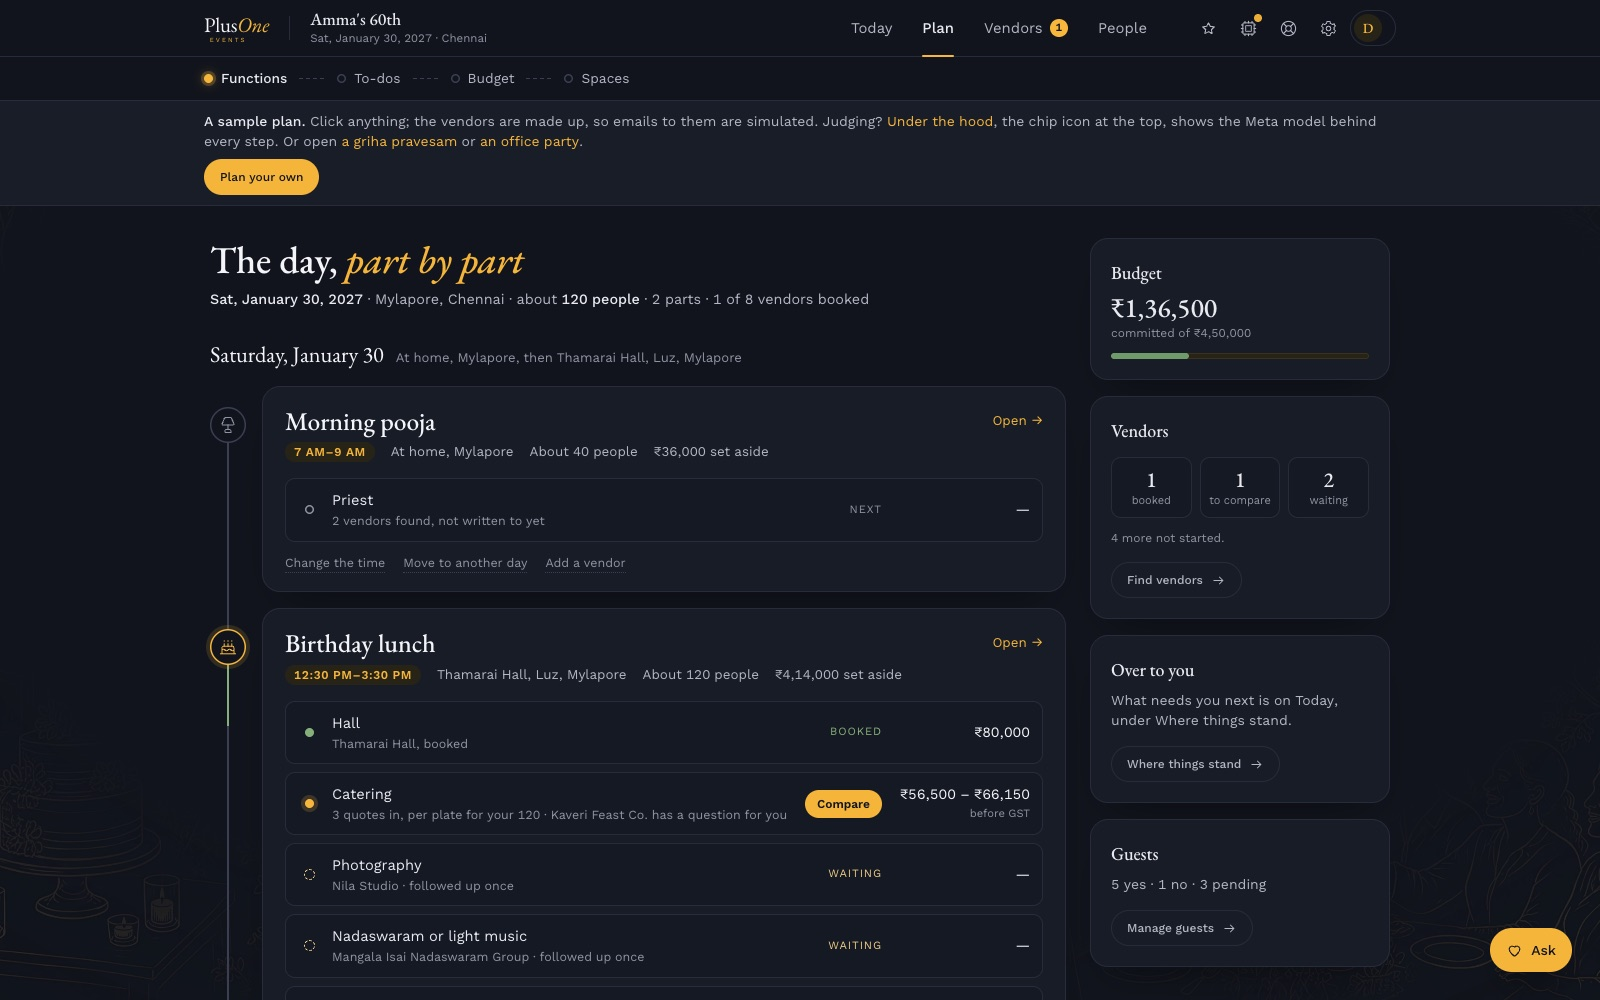
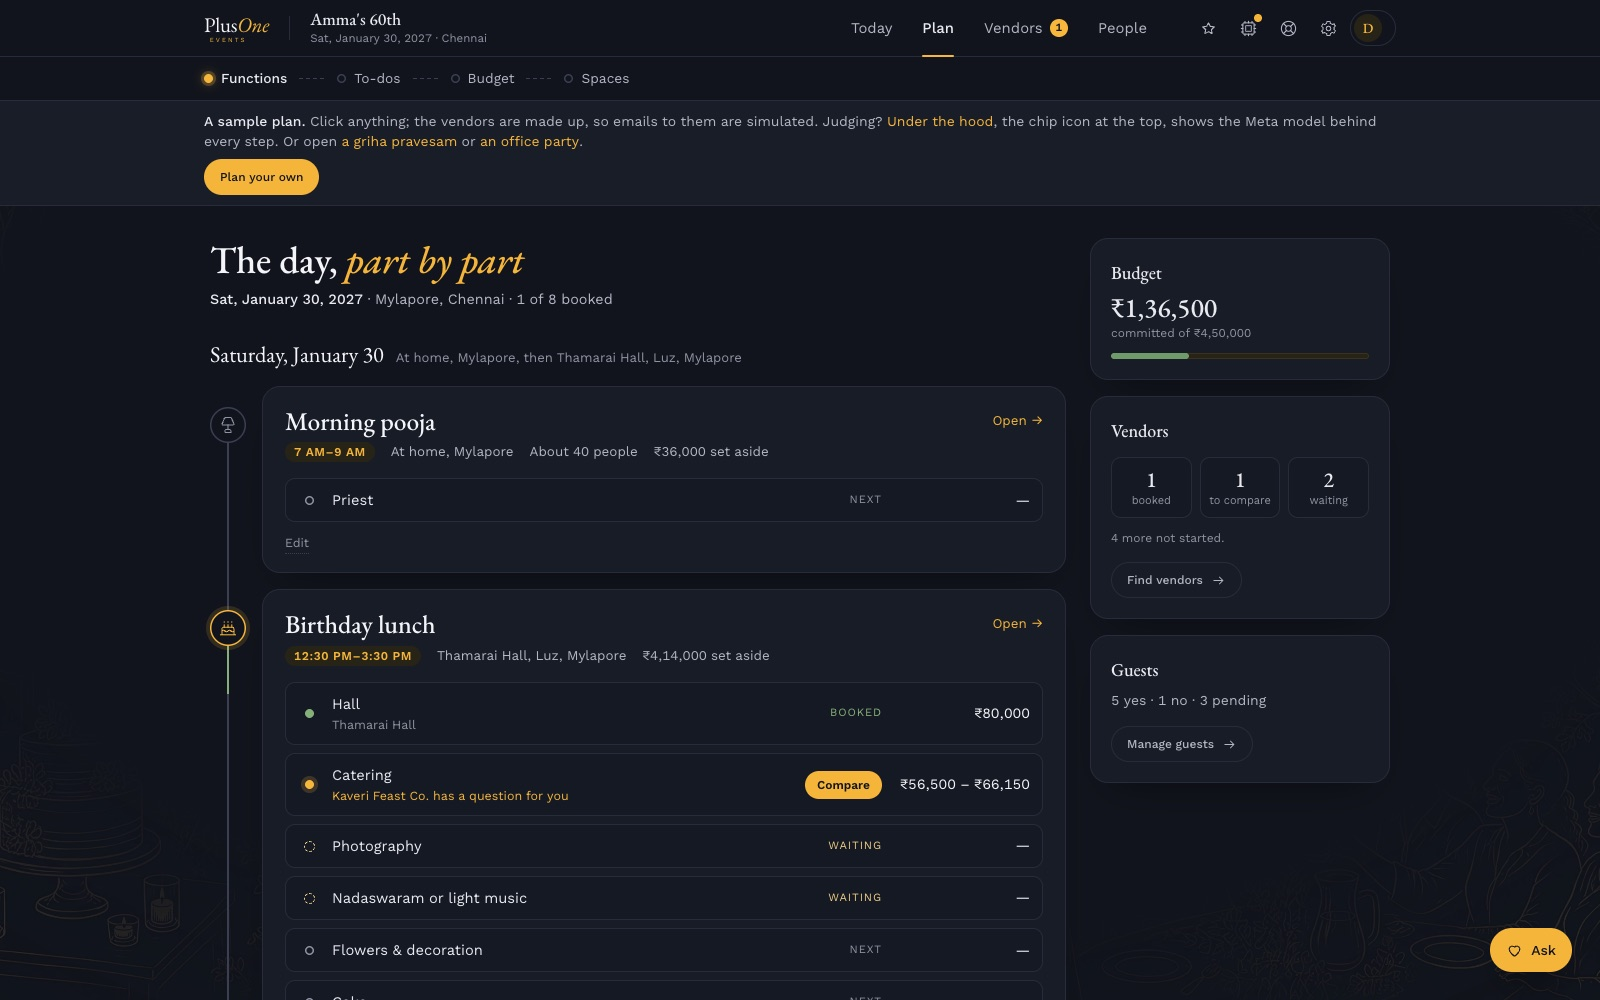
README: the Plan screenshot retaken after the lighter Plan tab; 767 tests

diff --git a/README.md b/README.md
@@ -16,7 +16,7 @@
 ![Event](https://img.shields.io/badge/event-Meta_Global_AI_Developer_Hackathon-f4b53a?style=flat-square&labelColor=11141c)
 ![Track](https://img.shields.io/badge/track-Startups-f4b53a?style=flat-square&labelColor=11141c)
 ![Status](https://img.shields.io/badge/status-working_end_to_end-c4dfbc?style=flat-square&labelColor=11141c)
-![Tests](https://img.shields.io/badge/tests-765_passing-c4dfbc?style=flat-square&labelColor=11141c)
+![Tests](https://img.shields.io/badge/tests-767_passing-c4dfbc?style=flat-square&labelColor=11141c)
 [![License](https://img.shields.io/badge/license-FSL--1.1--ALv2-b3b7c3?style=flat-square&labelColor=11141c)](LICENSE.md)
 
 <table align="center">
@@ -143,7 +143,7 @@ Before the hackathon, PlusOne already planned an event from a conversation, foun
 |---|---|---|
 | **Impact (30%)**: real-world potential, who benefits, could people use it, fit to the problem statement | Families, teams and event managers plan every event across calls, chats and spreadsheets, with quotes no two alike and charges that arrive later; vendors with no website can't be found. PlusOne is one app for the whole plan, with every quote and offer on the same lines. It is live and free until launch, with a no-sign-up demo. It earns from subscriptions first and, in the end, a disclosed commission on bookings made through PlusOne, kept there by a guarantee only those bookings will get (PlusOne Assured, planned) | [The business](#the-business), [How it works](#how-it-works) |
 | **Use of Meta AI tooling (25%)**: creative, beyond a basic integration, surprising capabilities | Six Meta models, each on the job it suits, chained in one flow: Muse Spark reads every quote, PDF and photo; Muse Voice Transcribe hears a brief, and a vendor's call speaker by speaker; SAM 3.1 cuts the stage out of the host's own hall photo; Muse Wonder gathers a vendor's evidence for Ops; the open-weights Muse Glimmer (our own GPU) checks vendors' photos and Muse Spark Open (Baseten) reads their price lists. Every call shows in Under the hood with its model, time and cost | [Meta's models in PlusOne](#metas-models-in-plusone) |
-| **Technical depth and execution (20%)**: sound, refined engineering, real craft | The model reads; fixed, tested rules decide (what a quote leaves out, the market range, when a quote may move the budget). One wrapper: schema-checked output, retries honouring `Retry-After`, a logged fallback, a cost row per call. 765 tests, CI that also builds the app, the live demo walked end to end in a browser after every push and every three hours, an uptime check every five minutes, and evaluations with their raw results, including a held-out set written by a separate agent: Muse Spark choosing each charge found 35 of 37 at 97% precision on quotes it had never seen, the same in three runs; 18 of 18 quotes read across email, PDF and photo, and 7 of 8 in Tamil and Tanglish; the stage found in 9 of 10 halls; Muse Wonder never confirming a made-up vendor | [Architecture](#architecture), [Evaluations](EVALUATIONS.md#evaluation-missing-charges), [The tech, part by part](EVALUATIONS.md#the-tech-part-by-part) |
+| **Technical depth and execution (20%)**: sound, refined engineering, real craft | The model reads; fixed, tested rules decide (what a quote leaves out, the market range, when a quote may move the budget). One wrapper: schema-checked output, retries honouring `Retry-After`, a logged fallback, a cost row per call. 767 tests, CI that also builds the app, the live demo walked end to end in a browser after every push and every three hours, an uptime check every five minutes, and evaluations with their raw results, including a held-out set written by a separate agent: Muse Spark choosing each charge found 35 of 37 at 97% precision on quotes it had never seen, the same in three runs; 18 of 18 quotes read across email, PDF and photo, and 7 of 8 in Tamil and Tanglish; the stage found in 9 of 10 halls; Muse Wonder never confirming a made-up vendor | [Architecture](#architecture), [Evaluations](EVALUATIONS.md#evaluation-missing-charges), [The tech, part by part](EVALUATIONS.md#the-tech-part-by-part) |
 | **Demo (25%)**: working, impressive, holds up live, a video worth watching | Two demos with no sign-up, the customers' and the vendors', on the live site, with made-up vendors so nothing is really sent. Retries, a fallback, rate limits, an uptime check every five minutes and the demo walked in a browser every three hours, through judging. A three-minute video of the new work | [The demo](https://app.plusoneevents.site/demo), [the vendors' demo](https://partner.plusoneevents.site/demo) |
 
 ### Questions a judge will ask
@@ -367,7 +367,7 @@ Each part, what it runs on and why, with file paths: [EVALUATIONS.md](EVALUATION
 ```bash
 git clone https://github.com/pe-hq-alpha/plusone-app.git plusone && cd plusone
 npm ci
-npm test              # 765 tests, no network, no keys
+npm test              # 767 tests, no network, no keys
 npm run typecheck     # the app and the backend
 ```
 

diff --git a/EVALUATIONS.md b/EVALUATIONS.md
@@ -124,7 +124,7 @@ Glimmer is the better guard on what matters most for trust, a vendor showing wor
 | Muse Spark reading the demo's quotes | The three caterers' replies read on `muse-spark-1.3` in production, each right first time: Annam ₹66,150 in three lines (150 plates at ₹380, ₹6,000 service, ₹3,150 GST), priced for 150; Saapadu ₹62,000 all in for 120 with the ₹480 extra plate kept apart; Kaveri ₹54,000 plus ₹2,500 for vessels and staff, GST extra. 7.1–14.4 s each, 4,329 tokens in and 6,570 out, $0.033 in all, no fallback | 28 Oct 2026 | `npx convex run modelTasks:readDemoQuotes`; the rows are Under the hood's recorded run |
 | Muse Voice Transcribe in production | A note spoken into the live app's Today box came back as text in the box, first try; the recording was deleted after reading | 28 Oct 2026 | By hand on app.plusoneevents.site, in the founder's own voice |
 | Muse Spark's reasoning | At `reasoning_effort: low` a one-line reply used 194 reasoning tokens; capped at 400 output tokens, reasoning took 398 and the answer came back empty. Every call site allows 16,000 | 27 Oct 2026 | Two direct Chat Completions calls |
-| Tests | 765 passed in 79 files, including the quote comparison, the standard sheet and its missing-charge rules (pinned on the guest demo's quotes), the marketplace's listings, briefs, offers and price ranges, the Meta provider switch and its fallback, Muse Spark Open on Baseten and its move to Muse Spark, the photo checks on Muse Glimmer (its retries through a cold start, the tag list, the limits and the Ops decisions), the venue view (boxes to SAM's objects, the mask cache, taps, limits and where the backdrop is drawn), the price list (only the sheet's units and the list's own prices kept, a photo deleted once read), the photos customers see, WhatsApp and call links, the cost record, the voice brief's limits and clean-up, the vendor check's tool loop, source rules (including links cited inside a note), limits, cost on failure and a finished check never run twice, the vendor map's places, distances and plain search, WhatsApp updates (the template, Meta's webhook signature and STOP), the planning conversation's rules, the board's geometry, the co-pilot's route and a contrast check of every text colour in the light and dark themes | 30 Oct 2026 | `npm test` |
+| Tests | 767 passed in 79 files, including the quote comparison, the standard sheet and its missing-charge rules (pinned on the guest demo's quotes), the marketplace's listings, briefs, offers and price ranges, the Meta provider switch and its fallback, Muse Spark Open on Baseten and its move to Muse Spark, the photo checks on Muse Glimmer (its retries through a cold start, the tag list, the limits and the Ops decisions), the venue view (boxes to SAM's objects, the mask cache, taps, limits and where the backdrop is drawn), the price list (only the sheet's units and the list's own prices kept, a photo deleted once read), the photos customers see, WhatsApp and call links, the cost record, the voice brief's limits and clean-up, the vendor check's tool loop, source rules (including links cited inside a note), limits, cost on failure and a finished check never run twice, the vendor map's places, distances and plain search, WhatsApp updates (the template, Meta's webhook signature and STOP), the planning conversation's rules, the board's geometry, the co-pilot's route and a contrast check of every text colour in the light and dark themes | 30 Oct 2026 | `npm test` |
 | Typecheck, app and backend | Clean | 28 Oct 2026 | `npm run typecheck` |
 | The three sample events | Each opened from `/demo` for a new visitor (the birthday, `?sample=housewarming`, `?sample=office`); eleven screens captured with 0 page errors; at phone width (390 px) the page is exactly as wide as the screen, with no sideways scroll | 25 Oct 2026 | Headless Chrome against the dev server and the dev backend; screenshots in this README are retaken as each page changes, last 26–29 Oct |
 | Vendor search terms, old against new | Vendors' own websites among results kept: 9 of 27 with the new short terms against 5 of 26 with the old single sentence, for about half the credits | 20 Oct 2026 | A one-off before/after run of three briefs against Firecrawl |

diff --git a/devlog.md b/devlog.md
@@ -70,6 +70,7 @@ Muse Code is Meta's coding agent. We subscribed to the Everyday plan on 27 Oct 2
 - **A review of the three things judges read** (`docs/reviews/2026-10-31.md`): the submission form's draft answers, the video plan and the repository, each scored against 9.5; 9.1 overall with the app. The form was read field by field (no draft save, no limits shown), its answers rewritten with measured figures, and the README's last stale lines fixed (the built list now names the price lists and WhatsApp; the Diwali promise and a doubtful line reworded). 765 tests, CI green, the live demo walked 15 of 15, `/uptime` 148 of 148.
 - **The review's fixes** (`88c547f`, `1417a36`): the vendor's offer screenshot retaken (it now shows what's in the price); on the vendors' demo the customer's request comes first, above the sample business (checked on production at 390 px: the request at 302 px, the business at 637); the Privacy and Terms pages name the grievance officer by role until the founders go public on 4 Nov. The narration became V1.1: the planner, which predates the hackathon, is labelled as such on screen and the beat shows only new work; figures say "estimated"; 430 spoken words.
 - **The baby shower, measured** (`7eafbda`): the founders' own half-day baby shower for 120 in Chennai, every quote against what was paid: ₹3,37,900 paid on ₹2,96,500 quoted, ₹21,400 of it for 40 more guests and ₹29,500, about 10%, in charges outside the headline prices (the hall's ₹20,000 for decorators' night-before hours; the caterer's ₹9,500 outside the plate rate, ₹614 a guest against ₹535). Read on production by the charge reader (three Muse Spark calls, under $0.01), the hall's quote comes back with extra hours flagged and the decorator's with set-up not stated. The hall's sheet now also asks about decorators' early access, rooms and car parking; 766 tests. Written up in EVALUATIONS and the README's measured results.
+- **The Plan tab, lighter** (`bd8e0ef`), from a real user planning a Diwali event on an iPad who found it too much to take in: one line per vendor, with a note only for who is booked or a question waiting on the host; one Edit per part instead of three links; fewer facts per card and in the header; the card that only pointed to Today removed; the three summary cards in one row on an iPad. Measured on production: words on the Plan tab 278 → 178 at every width, and every tab no longer scrolls sideways on an iPad held upright (the event's name in the top bar now gives way). 767 tests.
 
 ### 2026-10-30 - bafb7f9..ca5e6ab (the last build day)
 - **Vendors on a map, around the venue** (`b7e0d90`, Paddy's request of 29 Oct): each need shows "Near your venue", with the venue pinned, a circle of 2, 5, 10 or 20 km, and every verified and web-found vendor whose area is known numbered by distance; "Only inside the circle" trims the verified list and the web results to who's near, and each verified vendor shows how far it is. The venue's pin comes from the event's area, from its name looked up on OpenStreetMap (Nominatim, kept once found, rate-limited), or from a tap on the map. Find vendors takes a plain search ("caterers near Mylapore under 450"), read on the spot when it names a trade, otherwise by Muse Spark (`directory.read`, recorded as `vendorSearchRead`), and shows a list or a map. Partner asks each vendor for the area they work from.
